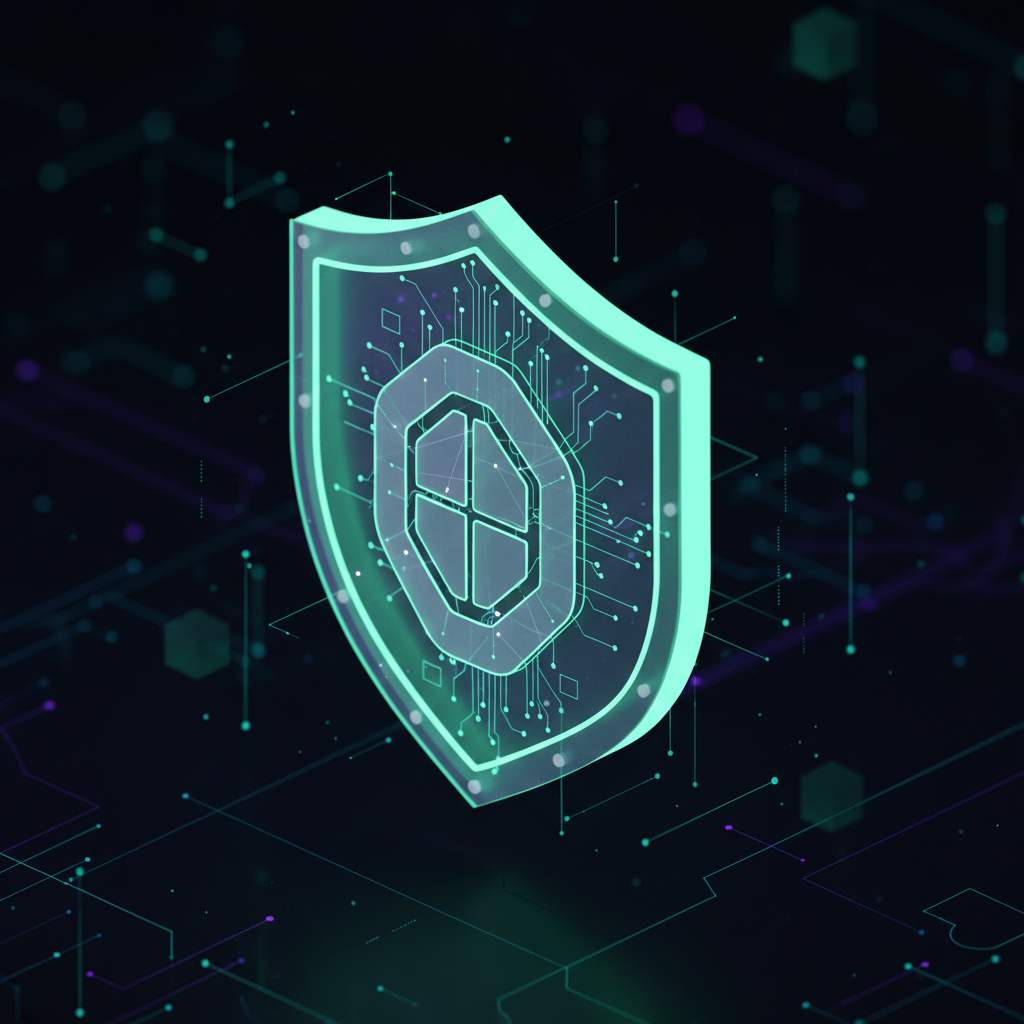
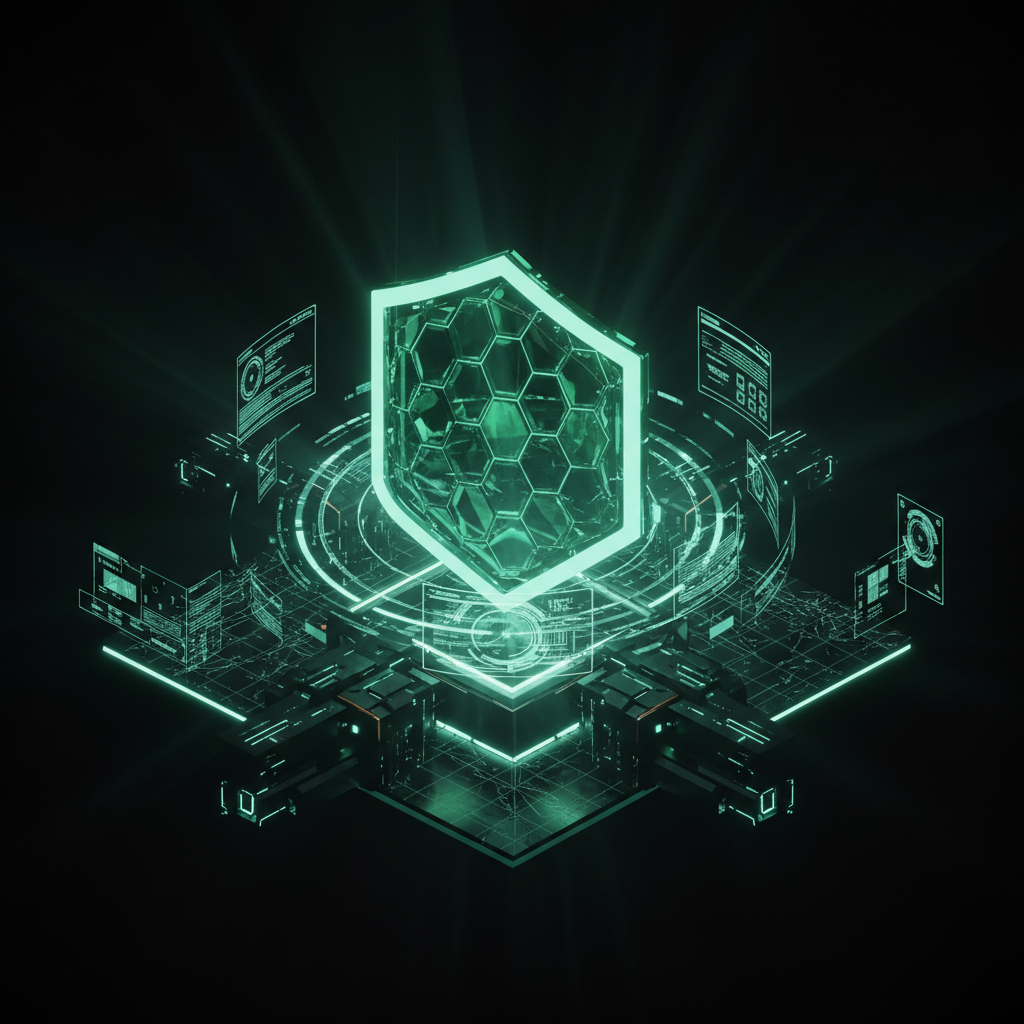
feat(landing): redesign hero layout and visual viewports with new nano-banana-2-lite renders

diff --git a/src/invoxystart/pages/LandingPage.tsx b/src/invoxystart/pages/LandingPage.tsx
@@ -530,14 +530,14 @@ export default function LandingPage() {
               <div className="rounded-[22px] bg-[#0c0f13] p-5 space-y-4 overflow-hidden relative border border-white/10">
                 <div className="absolute top-0 right-0 w-44 h-44 bg-[#a5e8c4]/15 rounded-full blur-3xl pointer-events-none" />
 
-                {/* 3D Cyber Shield Artwork with Live HUD Glass Overlay */}
-                <div className="relative h-64 rounded-2xl overflow-hidden border border-white/15 bg-black flex flex-col justify-between p-3.5 group">
+                {/* 3D Cyber Shield Artwork - Main Focal Viewport */}
+                <div className="relative h-80 rounded-2xl overflow-hidden border border-white/15 bg-[#080b0e] flex flex-col justify-between p-4 group shadow-[0_0_50px_rgba(165,232,196,0.15)]">
                   <img
                     src="/images/landing-shield.png"
                     alt="Invoxy Cyber Shield Protection"
-                    className="absolute inset-0 w-full h-full object-cover group-hover:scale-105 transition-transform duration-700 brightness-95"
+                    className="absolute inset-0 w-full h-full object-contain p-2 group-hover:scale-105 transition-transform duration-700 brightness-105 drop-shadow-[0_10px_30px_rgba(0,0,0,0.8)]"
                   />
-                  <div className="absolute inset-0 bg-gradient-to-t from-[#0c0f13] via-black/40 to-transparent" />
+                  <div className="absolute inset-0 bg-gradient-to-t from-[#0c0f13] via-transparent to-black/30 pointer-events-none" />
 
                   {/* Top Status Bar with Interactive Ping Trigger */}
                   <div className="relative z-10 w-full flex items-center justify-between">
@@ -550,7 +550,7 @@ export default function LandingPage() {
                           setIsShieldTesting(false);
                         }, 600);
                       }}
-                      className="flex items-center gap-2 px-3 py-1.5 rounded-full bg-black/75 backdrop-blur-md border border-white/15 text-xs text-zinc-200 hover:border-[#a5e8c4]/40 transition active:scale-95 shadow-lg"
+                      className="flex items-center gap-2 px-3 py-1.5 rounded-full bg-black/80 backdrop-blur-md border border-white/15 text-xs text-zinc-200 hover:border-[#a5e8c4]/40 transition active:scale-95 shadow-lg"
                     >
                       <span
                         className={`w-2 h-2 rounded-full ${isShieldTesting ? 'bg-amber-400 animate-ping' : 'bg-emerald-400 animate-pulse'}`}
@@ -560,52 +560,13 @@ export default function LandingPage() {
                       </span>
                     </button>
 
-                    <span className="text-[11px] font-mono text-[#a5e8c4] bg-black/75 backdrop-blur-md px-2.5 py-1 rounded-full border border-[#a5e8c4]/30 shadow-lg">
+                    <span className="text-[11px] font-mono text-[#a5e8c4] bg-black/80 backdrop-blur-md px-2.5 py-1 rounded-full border border-[#a5e8c4]/30 shadow-lg">
                       {isShieldTesting ? 'TESTING' : `${shieldPing} ms • 0% LOSS`}
                     </span>
                   </div>
 
-                  {/* Protocol Switcher Pills inside Artwork */}
-                  <div className="relative z-10 my-auto flex justify-center">
-                    <div className="inline-flex p-1 rounded-xl bg-black/80 backdrop-blur-md border border-white/15 gap-1 shadow-2xl">
-                      <button
-                        type="button"
-                        onClick={() => setSelectedCipher('xtls')}
-                        className={`px-2.5 py-1 rounded-lg text-[10px] font-mono font-bold transition-all ${
-                          selectedCipher === 'xtls'
-                            ? 'bg-[#a5e8c4] text-[#0c0f13] shadow'
-                            : 'text-zinc-400 hover:text-white'
-                        }`}
-                      >
-                        XTLS Vision
-                      </button>
-                      <button
-                        type="button"
-                        onClick={() => setSelectedCipher('reality')}
-                        className={`px-2.5 py-1 rounded-lg text-[10px] font-mono font-bold transition-all ${
-                          selectedCipher === 'reality'
-                            ? 'bg-[#a5e8c4] text-[#0c0f13] shadow'
-                            : 'text-zinc-400 hover:text-white'
-                        }`}
-                      >
-                        VLESS Reality
-                      </button>
-                      <button
-                        type="button"
-                        onClick={() => setSelectedCipher('carrier')}
-                        className={`px-2.5 py-1 rounded-lg text-[10px] font-mono font-bold transition-all ${
-                          selectedCipher === 'carrier'
-                            ? 'bg-[#a5e8c4] text-[#0c0f13] shadow'
-                            : 'text-zinc-400 hover:text-white'
-                        }`}
-                      >
-                        Direct Carrier
-                      </button>
-                    </div>
-                  </div>
-
-                  {/* Bottom Metrics HUD Panel */}
-                  <div className="relative z-10 w-full p-2.5 rounded-xl bg-black/80 backdrop-blur-md border border-white/15 flex items-center justify-between text-xs font-mono shadow-2xl">
+                  {/* Bottom Metrics HUD Panel inside the Viewport */}
+                  <div className="relative z-10 w-full p-2.5 rounded-xl bg-black/85 backdrop-blur-md border border-white/15 flex items-center justify-between text-xs font-mono shadow-2xl">
                     <div className="flex items-center gap-1.5">
                       <span className="text-zinc-400 text-[10px]">Режим:</span>
                       <span className="text-[#a5e8c4] font-bold text-[11px] uppercase">
@@ -622,6 +583,49 @@ export default function LandingPage() {
                       <span className="text-zinc-400 text-[10px]">Канал:</span>
                       <span className="text-white font-bold text-[11px]">10 Gbps</span>
                     </div>
+                  </div>
+                </div>
+
+                {/* Interactive Protocol Control Deck */}
+                <div className="p-3 rounded-2xl bg-white/[0.03] border border-white/10 space-y-2">
+                  <div className="flex items-center justify-between px-1 text-[11px]">
+                    <span className="text-zinc-400 font-medium">Протокол маскировки:</span>
+                    <span className="text-[#a5e8c4] font-mono font-bold">Smart Auto-Fallback</span>
+                  </div>
+                  <div className="grid grid-cols-3 gap-1.5 p-1 rounded-xl bg-black/60 border border-white/10">
+                    <button
+                      type="button"
+                      onClick={() => setSelectedCipher('xtls')}
+                      className={`py-2 px-2 rounded-lg text-xs font-mono font-bold transition-all text-center ${
+                        selectedCipher === 'xtls'
+                          ? 'bg-[#a5e8c4] text-[#0c0f13] shadow-lg shadow-[#a5e8c4]/20'
+                          : 'text-zinc-400 hover:text-white hover:bg-white/5'
+                      }`}
+                    >
+                      XTLS Vision
+                    </button>
+                    <button
+                      type="button"
+                      onClick={() => setSelectedCipher('reality')}
+                      className={`py-2 px-2 rounded-lg text-xs font-mono font-bold transition-all text-center ${
+                        selectedCipher === 'reality'
+                          ? 'bg-[#a5e8c4] text-[#0c0f13] shadow-lg shadow-[#a5e8c4]/20'
+                          : 'text-zinc-400 hover:text-white hover:bg-white/5'
+                      }`}
+                    >
+                      VLESS Reality
+                    </button>
+                    <button
+                      type="button"
+                      onClick={() => setSelectedCipher('carrier')}
+                      className={`py-2 px-2 rounded-lg text-xs font-mono font-bold transition-all text-center ${
+                        selectedCipher === 'carrier'
+                          ? 'bg-[#a5e8c4] text-[#0c0f13] shadow-lg shadow-[#a5e8c4]/20'
+                          : 'text-zinc-400 hover:text-white hover:bg-white/5'
+                      }`}
+                    >
+                      Direct Carrier
+                    </button>
                   </div>
                 </div>
 
@@ -691,13 +695,13 @@ export default function LandingPage() {
         <div className="grid grid-cols-1 md:grid-cols-3 gap-6">
           {/* Card 1: Interactive Live Speedtest & Throughput Equalizer */}
           <div className="p-6 rounded-3xl bg-[#0c0f13] border border-white/10 overflow-hidden flex flex-col justify-between group hover:border-[#a5e8c4]/40 transition-all shadow-xl hover:shadow-[#a5e8c4]/10">
-            <div className="h-52 rounded-2xl overflow-hidden bg-black mb-5 relative flex flex-col justify-between p-3.5 border border-white/10">
+            <div className="h-64 rounded-2xl overflow-hidden bg-[#080b0e] mb-5 relative flex flex-col justify-between p-3.5 border border-white/10 shadow-[0_0_30px_rgba(165,232,196,0.08)]">
               <img
                 src="/images/landing-hero.png"
                 alt="Максимальная скорость 4K"
-                className="absolute inset-0 w-full h-full object-cover group-hover:scale-105 transition-transform duration-700 brightness-95"
+                className="absolute inset-0 w-full h-full object-contain p-2 group-hover:scale-105 transition-transform duration-700 brightness-105"
               />
-              <div className="absolute inset-0 bg-gradient-to-t from-[#0c0f13] via-black/40 to-black/60" />
+              <div className="absolute inset-0 bg-gradient-to-t from-[#0c0f13] via-transparent to-black/40 pointer-events-none" />
 
               {/* Live HUD Badge & Speedtest Trigger */}
               <div className="relative z-10 flex items-center justify-between text-xs">
@@ -780,13 +784,13 @@ export default function LandingPage() {
 
           {/* Card 2: Interactive Telegram Bot Token Generator */}
           <div className="p-6 rounded-3xl bg-[#0c0f13] border border-white/10 overflow-hidden flex flex-col justify-between group hover:border-emerald-400/40 transition-all shadow-xl hover:shadow-emerald-400/10">
-            <div className="h-52 rounded-2xl overflow-hidden bg-black mb-5 relative flex flex-col justify-between p-3.5 border border-white/10">
+            <div className="h-64 rounded-2xl overflow-hidden bg-[#080b0e] mb-5 relative flex flex-col justify-between p-3.5 border border-white/10 shadow-[0_0_30px_rgba(52,211,153,0.08)]">
               <img
                 src="/images/trial-gift.png"
                 alt="Бесплатный тестовый период"
-                className="absolute inset-0 w-full h-full object-cover group-hover:scale-105 transition-transform duration-700 brightness-95"
+                className="absolute inset-0 w-full h-full object-contain p-2 group-hover:scale-105 transition-transform duration-700 brightness-105"
               />
-              <div className="absolute inset-0 bg-gradient-to-t from-[#0c0f13] via-black/40 to-black/60" />
+              <div className="absolute inset-0 bg-gradient-to-t from-[#0c0f13] via-transparent to-black/40 pointer-events-none" />
 
               {/* Bot Header Badge */}
               <div className="relative z-10 flex items-center justify-between">
@@ -862,7 +866,7 @@ export default function LandingPage() {
 
           {/* Card 3: Interactive Multi-device Ecosystem Matrix with Switcher */}
           <div className="p-6 rounded-3xl bg-[#0c0f13] border border-white/10 overflow-hidden flex flex-col justify-between group hover:border-teal-400/40 transition-all shadow-xl hover:shadow-teal-400/10">
-            <div className="h-52 rounded-2xl overflow-hidden bg-[#07090d] mb-5 relative flex flex-col justify-between p-3.5 border border-white/10">
+            <div className="h-64 rounded-2xl overflow-hidden bg-[#07090d] mb-5 relative flex flex-col justify-between p-3.5 border border-white/10 shadow-[0_0_30px_rgba(45,212,191,0.08)]">
               <div
                 className="absolute inset-0 opacity-20 pointer-events-none"
                 style={{
